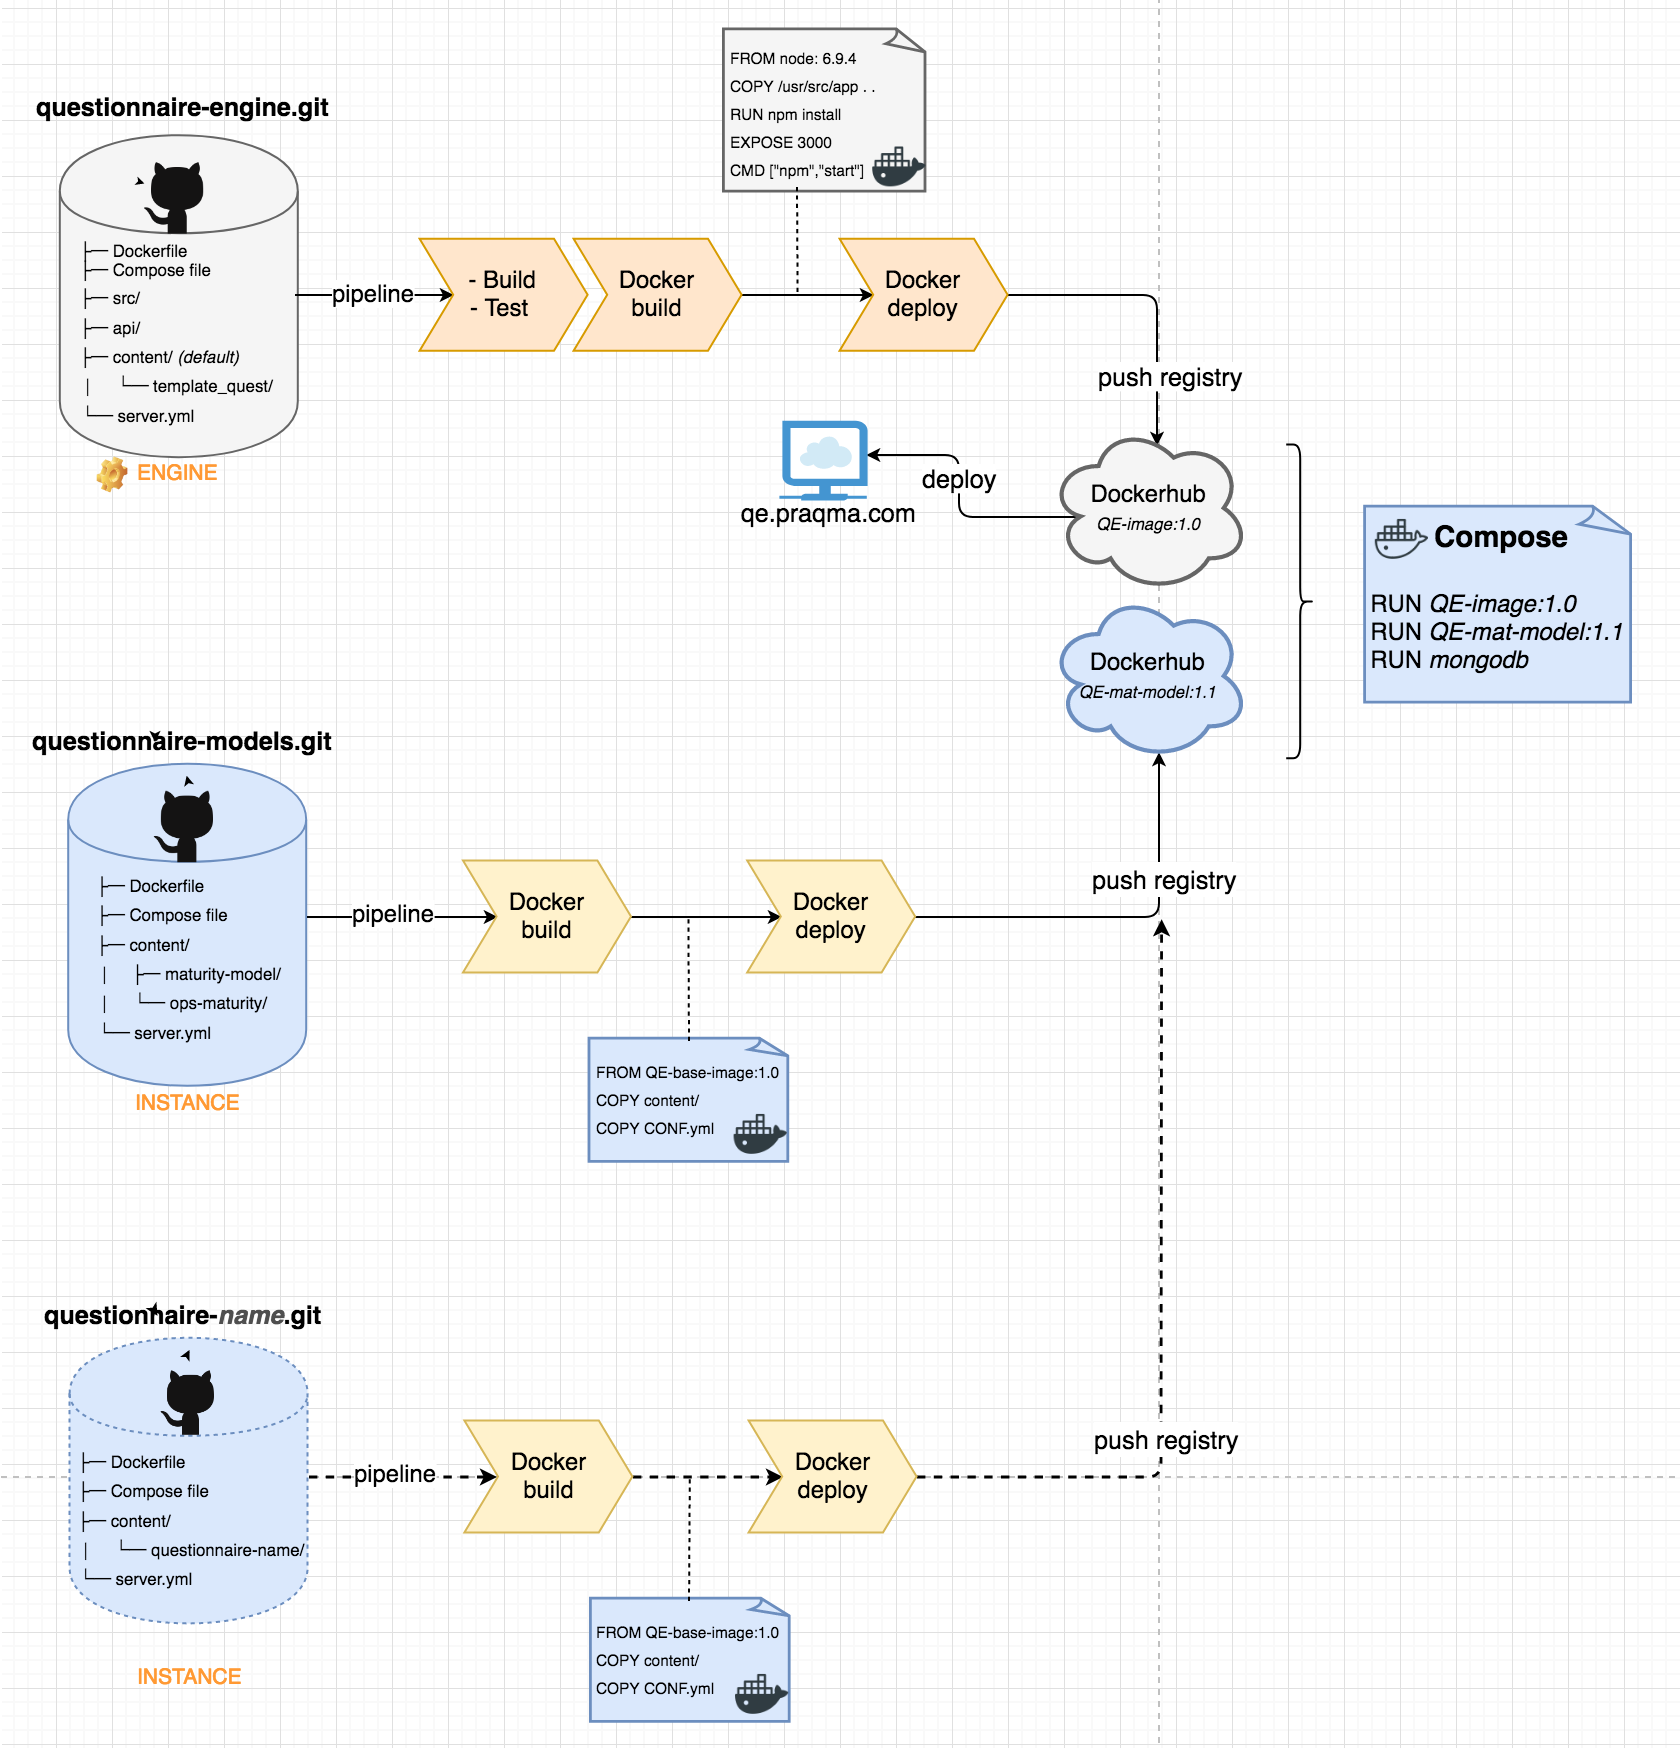
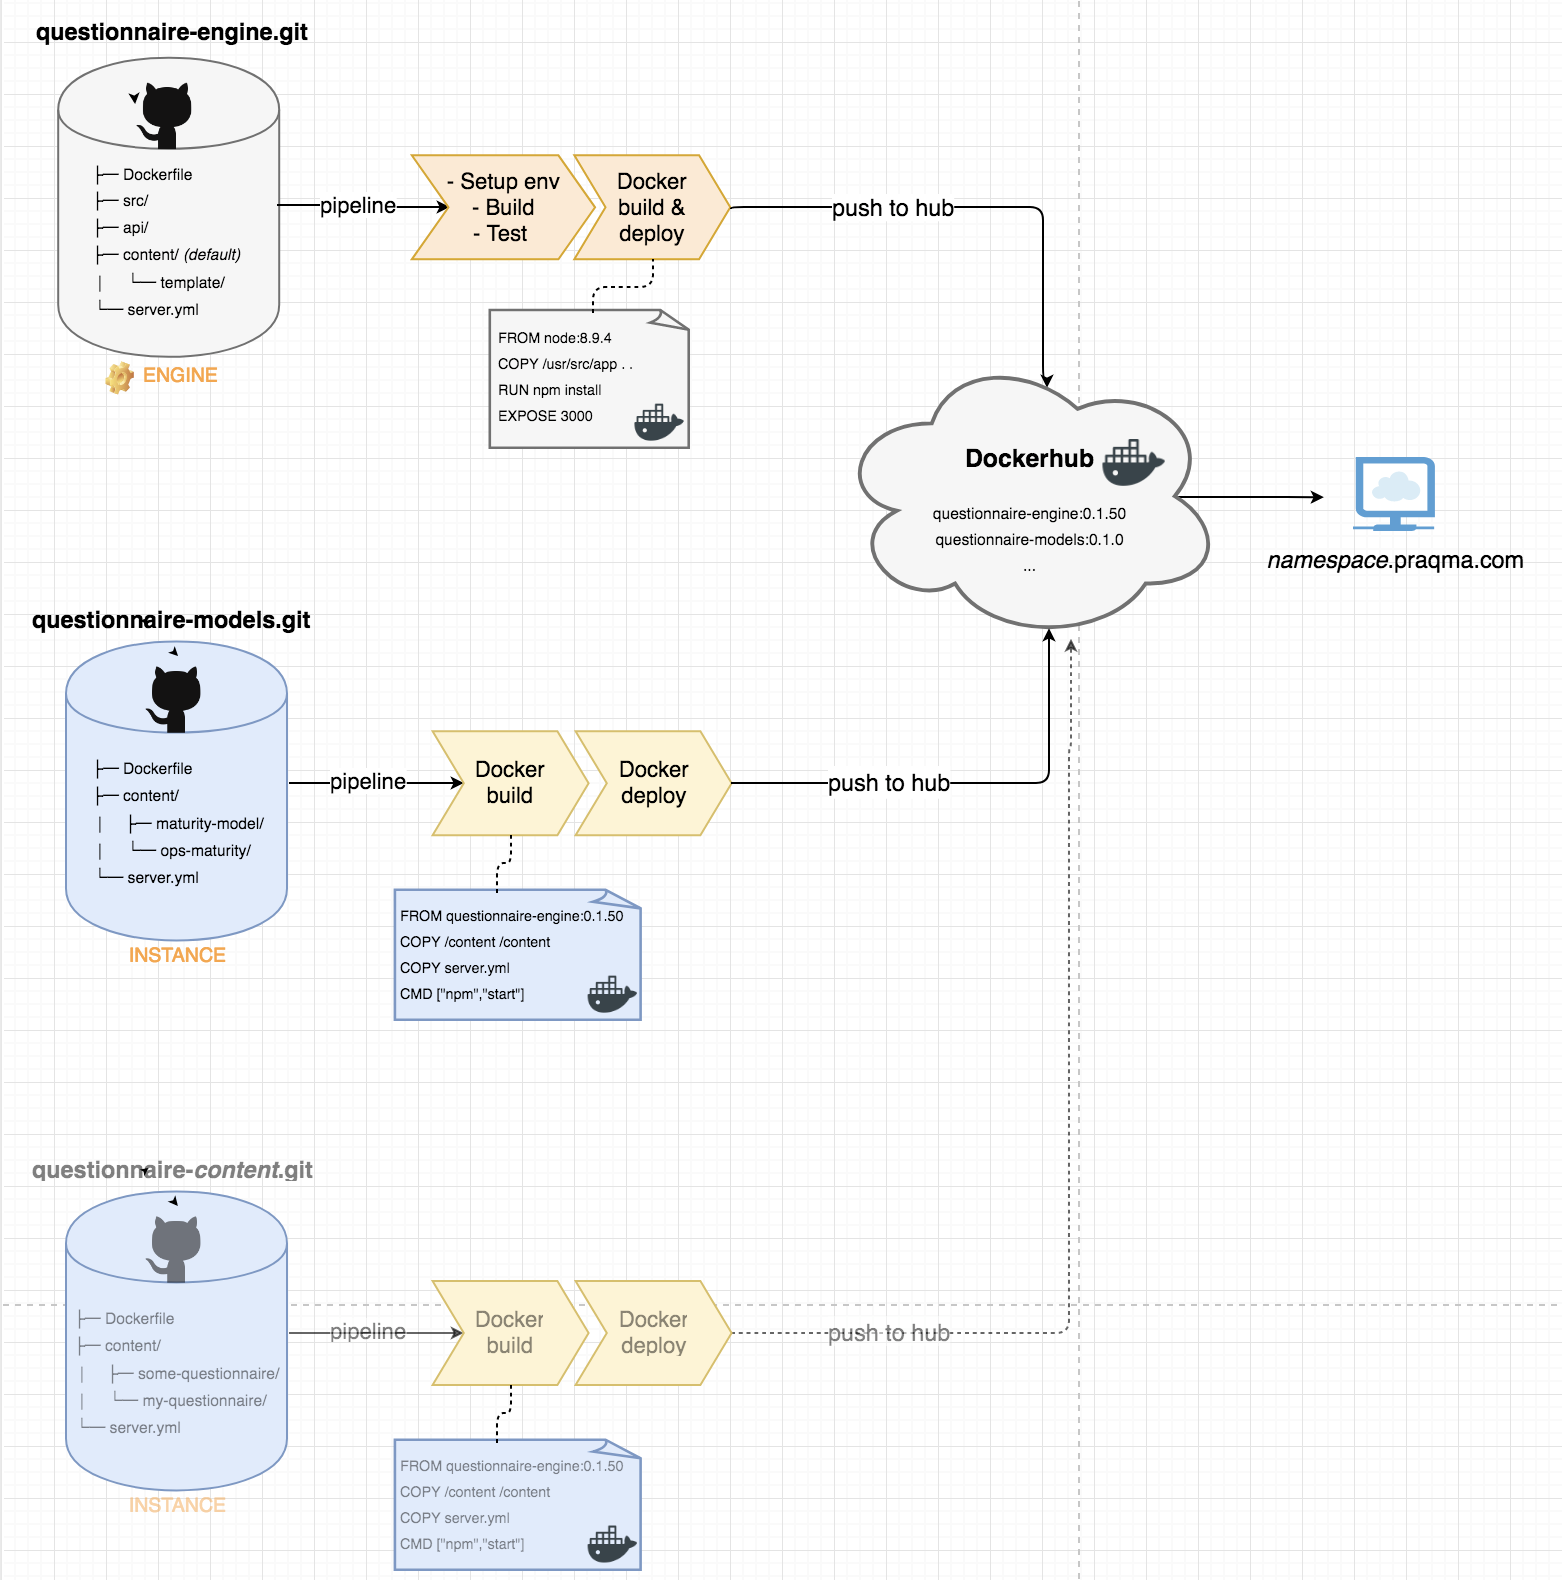
close #137 update readme on ci pipelines

diff --git a/README.md b/README.md
@@ -14,12 +14,12 @@ If you want to run the image in a container then you will need Docker. Follow [t
 
 ### Running the Web Application
 
-The application can be found in the docker store as `praqma/questionnaire-engine:<version>`. This is the core (*engine*) that contains the business logic. There are a few example questionnaires in the `content/` folder that you can use for inspiration.
+The application can be found in the docker store as `praqma/questionnaire-engine:<version>`, see the [tags on Dockerhub](https://hub.docker.com/r/praqma/questionnaire-engine/tags/). This is the core (*engine*) that contains the business logic. There are a few example questionnaires in the `content/` folder that you can use for inspiration.
 
 Run this command to start the application. It will pull the image from Docker hub and start the app in a container
 
 ```shell
-docker run --rm -it -p 3000:3000 --env DB_PASSWORD=<dbpassword> praqma/questionnaire-engine:1.0 npm start
+docker run --rm -it -p 3000:3000 --env DB_PASSWORD=<dbpassword> praqma/questionnaire-engine:0.1.50 npm start
 
 # --rm            remove the container after exiting
 # -it             run container with interactive terminal attached
@@ -33,11 +33,15 @@ Find the database password inside Praqma's password manager under the name `Data
 
 ## Deployment
 
-The web application is running in Docker containers. There is a main image containing the engine called `questionnaire-engine` which also contains some example content. 
+The web application is running in Docker containers. There is a main image containing the engine called `questionnaire-engine` which also contains some example content.
 
 Another image called `questionnaire-models` that will contain the questionnaire content is created based on the engine image. This holds an arbitrary number of forms. Adding a new form under the `content/` folder of this repo will be deployed under the right domain. Read more about how to set up your own content repository for the engine [here](https://github.com/Praqma/questionnaire-models).
 
-<!-- ![Deployment Description](/docs/deployment-description.png) -->
+### CI Pipeline
+
+A [CI pipeline](https://circleci.com/gh/Praqma/questionnaire-engine) is running on Circle CI that checks out our source code on each commit. It installs the dependencies and builds the server and client side source code for production. After verifying that the tests pass it builds a new Docker image and pushes that to Praqma's [repository on Dockerhub](https://hub.docker.com/r/praqma/questionnaire-engine/).
+
+![Deployment Description](/docs/deployment-description.png)
 
 ## Database
 
